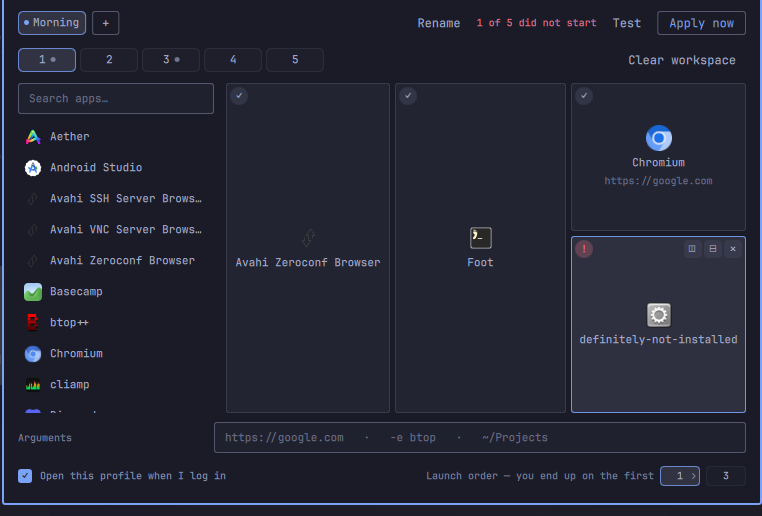
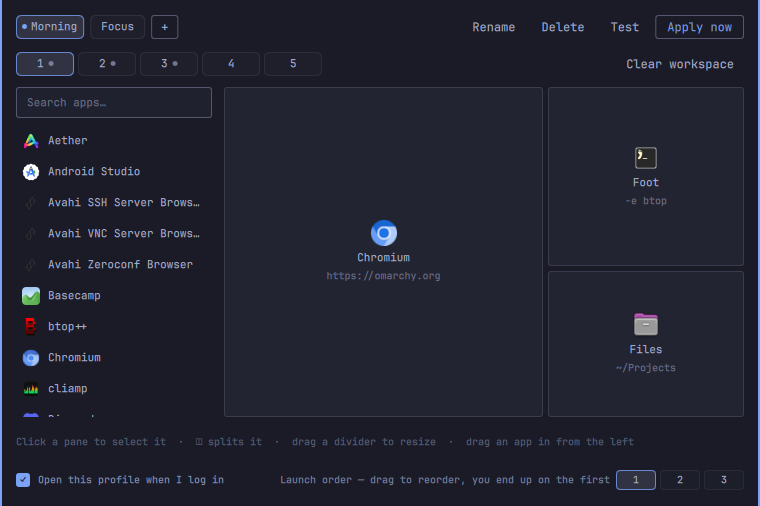
Shoot the editor again and open the README with what you get
The screenshot was a debugging session — an unnamed profile mid-test, one
of five panes red because the app was called definitely-not-installed. It
now shows a Morning profile the way you would actually build one, three
workspaces set up, the login box ticked.

The README gained the four things a listing needs up front: what it can
do, what it needs, and that it writes exactly one file of its own and
leaves your config alone. Delete and Clear workspace were in the UI but
not in the text.

Claude-Session: https://claude.ai/code/session_01EmHgwLz711oLjHeAigpFWM

diff --git a/README.md b/README.md
@@ -13,6 +13,15 @@ The layouts are real tiling layouts, not floating windows placed by hand. What
 you draw on the canvas is the dwindle tree Hyprland ends up with, ratios and
 all, so the result is something you can go on using with your normal keybinds.
 
+- **Five workspaces, any number of profiles** — a morning one, a work one, one
+  for whatever you are shipping this week.
+- **Apps with their arguments**, so a pane is "Chromium on the dashboard" or
+  "a terminal running btop", not just "Chromium".
+- **Test** opens every app out of sight and tells you which ones did not start,
+  before a login run is the thing that finds out.
+- **At login, or on demand** — a right click on the bar icon, or a keybinding
+  you choose.
+
 ## Install
 
 ```bash
@@ -20,6 +29,14 @@ omarchy plugin add https://github.com/imRYiUK/omarchy-workspace-profiles.git --e
 ```
 
 Then click the ◫ icon in your bar.
+
+It needs Omarchy 4 with the Quickshell bar, Hyprland 0.56 or newer, and
+workspaces on the **dwindle** layout; `jq` and `uwsm-app` ship with Omarchy
+already. The [requirements](#requirements) spell that out.
+
+It writes one file of its own, `~/.config/omarchy/workspace-profiles/profiles.json`,
+and nothing else. Your Hyprland config, your keybindings and your bar config are
+left exactly as you wrote them, and removing the plugin takes the widget with it.
 
 To remove it:
 
@@ -32,8 +49,10 @@ omarchy plugin remove io.github.imryiuk.workspace-profiles
 **The editor** opens on a left click of the bar icon.
 
 - **Profiles** run along the top. `+` makes another, `Rename` renames the one
-  you are on, and a dot on a chip marks the profile that runs at login.
-- **Workspaces 1–5** are the row below. A dot means something is set up there.
+  you are on, `Delete` appears once there is more than one, and a dot on a chip
+  marks the profile that runs at login.
+- **Workspaces 1–5** are the row below. A dot means something is set up there,
+  and `Clear workspace` empties the one you are on.
 - **Search for an app** on the left, then either click it onto the selected pane
   or drag it onto any pane. Where you let go on the pane decides the split:
 - **Split a pane** with the `◫` buttons that appear when you hover it — the
